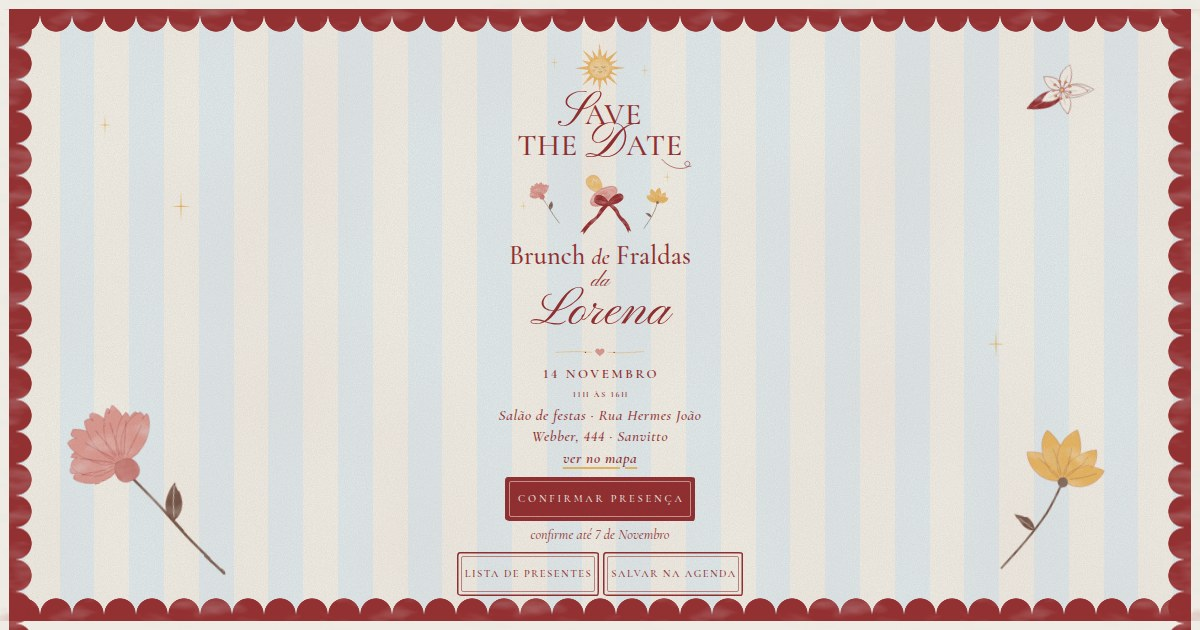
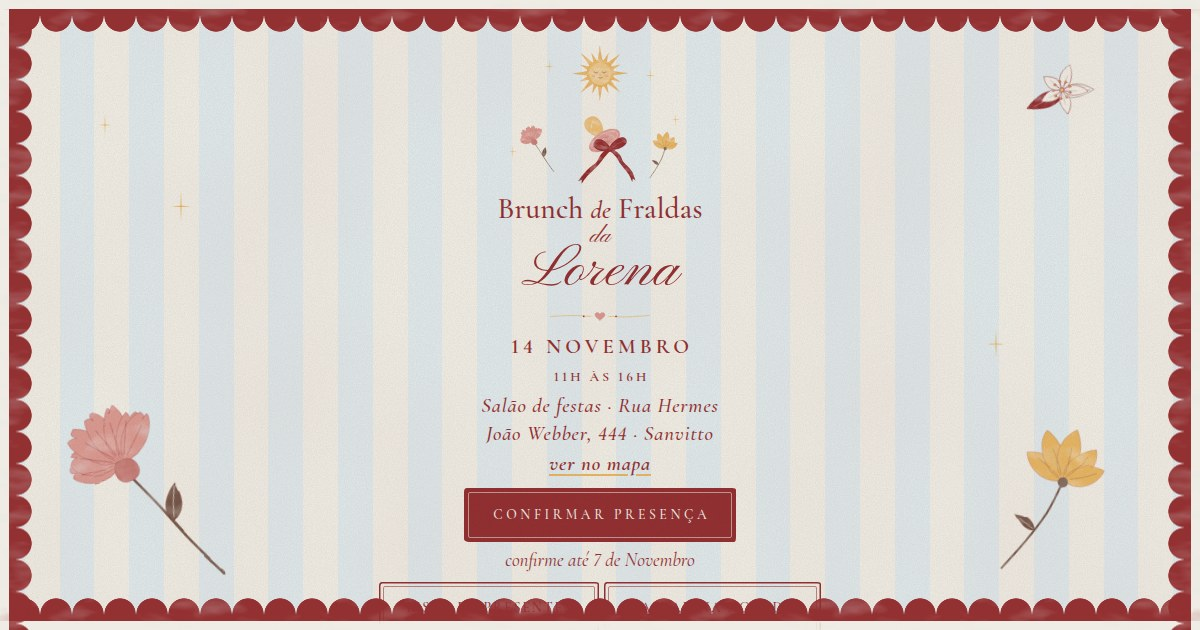
Convite Lorena: sem "Save the date", textos maiores + lista com itens novos (#13)
* Convite Lorena: remove "Save the date", sobe o cartão e aumenta os textos abaixo de Lorena

Claude-Session: https://claude.ai/code/session_01BXY1h8oHqQ1vXQLVMYM9i5

* Lista Lorena: grupo Brincar e descobrir (mordedor, 2 livrinhos, brinquedo educativo)

Claude-Session: https://claude.ai/code/session_01BXY1h8oHqQ1vXQLVMYM9i5

* Lista Lorena: sono, boquinhas, toalha, trocador, babadores, saquinhos de leite, tapete, móbile e chocalho; tabs cabem no desktop

Claude-Session: https://claude.ai/code/session_01BXY1h8oHqQ1vXQLVMYM9i5

* Lista Lorena: recipiente para leite e mosquiteiro (grupo Sono e passeio); tab curta "Brincar"

Claude-Session: https://claude.ai/code/session_01BXY1h8oHqQ1vXQLVMYM9i5

* Lista Lorena: clipe para bico

Claude-Session: https://claude.ai/code/session_01BXY1h8oHqQ1vXQLVMYM9i5

---------

Changed region(s): [[0.3083, 0.5429, 0.6783, 0.9651], [0.4008, 0.0603, 0.5858, 0.5127]]

diff --git a/lib/lorena/gifts.ts b/lib/lorena/gifts.ts
@@ -21,12 +21,14 @@ export type Gift = {
   examplesNote?: string;
   examples?: readonly Example[];
 };
-export type GiftGroup = { id: string; title: string; note?: string; items: readonly Gift[] };
+/** `tab` = nome curto na barra de categorias (opcional; senão usa `title`) */
+export type GiftGroup = { id: string; title: string; tab?: string; note?: string; items: readonly Gift[] };
 
 const PACOTE = ["pacote", "pacotes"] as const;
 const UNIDADE = ["unidade", "unidades"] as const;
 const CAIXA = ["caixa", "caixas"] as const;
 const FRASCO = ["frasco", "frascos"] as const;
+const LIVRO = ["livrinho", "livrinhos"] as const;
 
 /**
  * Links de produto de farmácia podem sair do ar quando a loja troca o cadastro:
@@ -82,6 +84,9 @@ export const giftList: { examples: boolean; groups: readonly GiftGroup[] } = {
         { id: "algodao", name: "Algodão em quadradinhos", note: "Pacote grande", total: 4, unit: PACOTE },
         { id: "garrafa-termica", name: "Garrafa térmica de pressão", note: "Para esquentar a água dos algodões" },
         { id: "lencos", name: "Lenços umedecidos", note: "Sem perfume, linha sensitive", total: 6, unit: PACOTE },
+        { id: "fraldas-pano", name: "Fraldas de pano / boquinhas", note: "Pacote com 5 ou 6", total: 3, unit: PACOTE },
+        { id: "toalha", name: "Toalha de banho de algodão", total: 2, unit: UNIDADE },
+        { id: "trocador-portatil", name: "Trocador portátil", note: "Para levar na bolsa" },
         { id: "sabonete", name: "Sabonete líquido de bebê", note: "Hipoalergênico, sem perfume forte", total: 2, unit: FRASCO },
         { id: "shampoo", name: "Shampoo de bebê", note: "Natura ou Mustela", examplesNote: NATURA_OU_MUSTELA, examples: [ex.naturaShampoo, ex.mustelaShampoo] },
         { id: "condicionador", name: "Condicionador de bebê", note: "Natura Mamãe e Bebê", examples: [ex.naturaCondicionador] },
@@ -103,7 +108,33 @@ export const giftList: { examples: boolean; groups: readonly GiftGroup[] } = {
       items: [
         { id: "mamadeira", name: "Mamadeira anticólica", total: 2, unit: UNIDADE },
         { id: "chupeta", name: "Chupeta / bico anticólica" },
+        { id: "clipe-chupeta", name: "Clipe para bico", note: "Prendedor de chupeta" },
         { id: "escova-mamadeira", name: "Escova para limpar mamadeira" },
+        { id: "babadores", name: "Babadores", total: 4, unit: UNIDADE },
+        { id: "leite-materno", name: "Saquinhos para leite materno", note: "Para congelar o leite", total: 2, unit: CAIXA },
+        { id: "recipiente-leite", name: "Recipiente para guardar leite", note: "Potinhos com tampa, sem BPA" },
+      ],
+    },
+    {
+      id: "sono",
+      title: "Sono e passeio",
+      items: [
+        { id: "saco-dormir", name: "Saco de dormir ou cueiro", note: "Algodão, para recém-nascido" },
+        { id: "manta", name: "Manta leve de algodão" },
+        { id: "mosquiteiro", name: "Mosquiteiro para carrinho" },
+      ],
+    },
+    {
+      id: "brincar",
+      title: "Brincar e descobrir",
+      tab: "Brincar",
+      items: [
+        { id: "mordedor", name: "Mordedor", note: "Silicone, sem BPA" },
+        { id: "livrinhos", name: "Livrinhos de bebê", note: "De pano, de banho ou com contraste preto e branco", total: 2, unit: LIVRO },
+        { id: "brinquedo-educativo", name: "Brinquedo educativo", note: "Para 0 a 6 meses — chocalho, cores e texturas" },
+        { id: "tapete-atividades", name: "Tapete de atividades", note: "Com arco de brinquedos (ginásio)" },
+        { id: "mobile", name: "Móbile para o berço" },
+        { id: "chocalho", name: "Chocalho", total: 2, unit: UNIDADE },
       ],
     },
     {

diff --git a/app/lorena/lorena.css b/app/lorena/lorena.css
@@ -586,11 +586,11 @@
 .lw-hero__more .lw-btn { padding-inline: calc(1.6 * var(--u)); letter-spacing: 0.14em; text-indent: 0.14em; }
 /* the extra lines need more height units so the card still fits one screen */
 .lw-hero:has(.lw-hero__actions) {
-  --u: min(calc((100vh - 2 * var(--frame)) / 142), 1.5vw);
-  --u: min(calc((100svh - 2 * var(--frame)) / 142), 1.5vw);
+  --u: min(calc((100vh - 2 * var(--frame)) / 126), 1.5vw);
+  --u: min(calc((100svh - 2 * var(--frame)) / 126), 1.5vw);
 }
 @media (max-width: 720px) {
-  .lw-hero:has(.lw-hero__actions) { --u: min(calc((100svh - 2 * var(--frame)) / 142), 1.72vw); }
+  .lw-hero:has(.lw-hero__actions) { --u: min(calc((100svh - 2 * var(--frame)) / 126), 1.72vw); }
   .lw-hero__more .lw-btn { font-size: 0.6rem; padding-inline: 12px; letter-spacing: 0.1em; text-indent: 0.1em; }
 }
 /* popups opened from the card */
@@ -1277,8 +1277,9 @@ button.lw-gl__state { cursor: pointer; }
   .lw-gl__intro { max-width: 40ch; margin-left: auto; margin-right: auto; font-size: 1.5rem; }
 
   .lw-gt { margin-bottom: 34px; }
-  .lw-gt__bar { justify-content: center; padding: 8px; }
-  .lw-gt__tab { font-size: 0.8rem; padding: 0.85em 1.3em; }
+  /* all tabs visible on desktop: wrap to a second line if a long name ever needs it */
+  .lw-gt__bar { flex-wrap: wrap; justify-content: center; gap: 2px; padding: 8px 6px; }
+  .lw-gt__tab { font-size: 0.74rem; padding: 0.85em 0.85em; letter-spacing: 0.12em; }
   .lw-gl__group { scroll-margin-top: calc(var(--frame) + 96px); }
 
   .lw-gl { gap: 40px; }
@@ -1319,3 +1320,20 @@ button.lw-gl__state { cursor: pointer; }
 .lw-adm__table th { padding: 8px 10px; text-align: left; font-family: var(--font-display); font-size: 0.66rem; font-weight: 600; letter-spacing: 0.16em; text-transform: uppercase; border-bottom: 1px solid var(--burgundy); }
 .lw-adm__table td { padding: 10px; border-bottom: 1px dotted rgba(147, 48, 50, 0.4); vertical-align: top; }
 .lw-adm__table tr.is-old { opacity: 0.4; text-decoration: line-through; }
+
+/* City card without "Save the date": the details under "Lorena" read bigger */
+.lw-hero:has(.lw-hero__actions) .lw-hero__date { font-size: calc(4.1 * var(--u)); }
+.lw-hero:has(.lw-hero__actions) .lw-hero__time { font-size: calc(2.6 * var(--u)); margin-top: calc(1 * var(--u)); }
+.lw-hero:has(.lw-hero__actions) .lw-hero__place { font-size: max(1.08rem, calc(2.35 * var(--u))); max-width: 30ch; }
+.lw-hero:has(.lw-hero__actions) .lw-hero__deadline { font-size: max(1rem, calc(2 * var(--u))); }
+.lw-hero:has(.lw-hero__actions) .lw-hero__actions .lw-btn { font-size: max(0.74rem, calc(1.65 * var(--u))); min-height: max(48px, calc(6.2 * var(--u))); }
+@media (max-width: 720px) {
+  .lw-hero:has(.lw-hero__actions) .lw-hero__more .lw-btn { font-size: 0.66rem; }
+}
+@media (min-width: 900px) {
+  .lw-hero:has(.lw-hero__actions) .lw-hero__date { font-size: calc(4.6 * var(--u)); }
+  .lw-hero:has(.lw-hero__actions) .lw-hero__time { font-size: calc(3 * var(--u)); }
+  .lw-hero:has(.lw-hero__actions) .lw-hero__place { font-size: max(1.3rem, calc(2.6 * var(--u))); }
+  .lw-hero:has(.lw-hero__actions) .lw-hero__deadline { font-size: 1.2rem; }
+  .lw-hero:has(.lw-hero__actions) .lw-hero__actions .lw-btn { font-size: 0.86rem; min-height: 54px; padding-inline: 26px; }
+}

diff --git a/components/lorena/sections/Hero.tsx b/components/lorena/sections/Hero.tsx
@@ -77,10 +77,12 @@ export function Hero({ content, more = true, choices }: { content: Content; more
         </div>
 
         <h1 className="lw-hero__title">
-          <span className="lw-std lw-load" style={d(700)}>
-            <SwashTitle words={h.eyebrow} />
-            <Flourish className="lw-std__flourish" />
-          </span>
+          {h.eyebrow.length > 0 && (
+            <span className="lw-std lw-load" style={d(700)}>
+              <SwashTitle words={h.eyebrow} />
+              <Flourish className="lw-std__flourish" />
+            </span>
+          )}
 
           {/* pacifier between the two flowers */}
           <span className="lw-hero__vignette lw-load" style={d(1000)} aria-hidden="true">

diff --git a/app/lorena/lista-de-presentes/page.tsx b/app/lorena/lista-de-presentes/page.tsx
@@ -51,7 +51,7 @@ export default function GiftListPage() {
           <DecorativeDivider variant="heart" reveal={false} />
         </header>
 
-        <GiftTabs groups={giftList.groups.map(({ id, title }) => ({ id, title }))} />
+        <GiftTabs groups={giftList.groups.map(({ id, title, tab }) => ({ id, title: tab ?? title }))} />
         <GiftList groups={giftList.groups} />
 
         <p className="lw-gl__back">

diff --git a/lib/lorena/content.ts b/lib/lorena/content.ts
@@ -26,7 +26,8 @@ export function getContent(slug: EditionSlug) {
     },
 
     hero: {
-      eyebrow: ["Save", "the Date"],
+      /** título acima do chupetinha; [] esconde (ex.: ["Save", "the Date"]) */
+      eyebrow: [] as string[],
       title: ["Brunch", "de", "Fraldas"],
       connector: "da",
       name: "Lorena",
